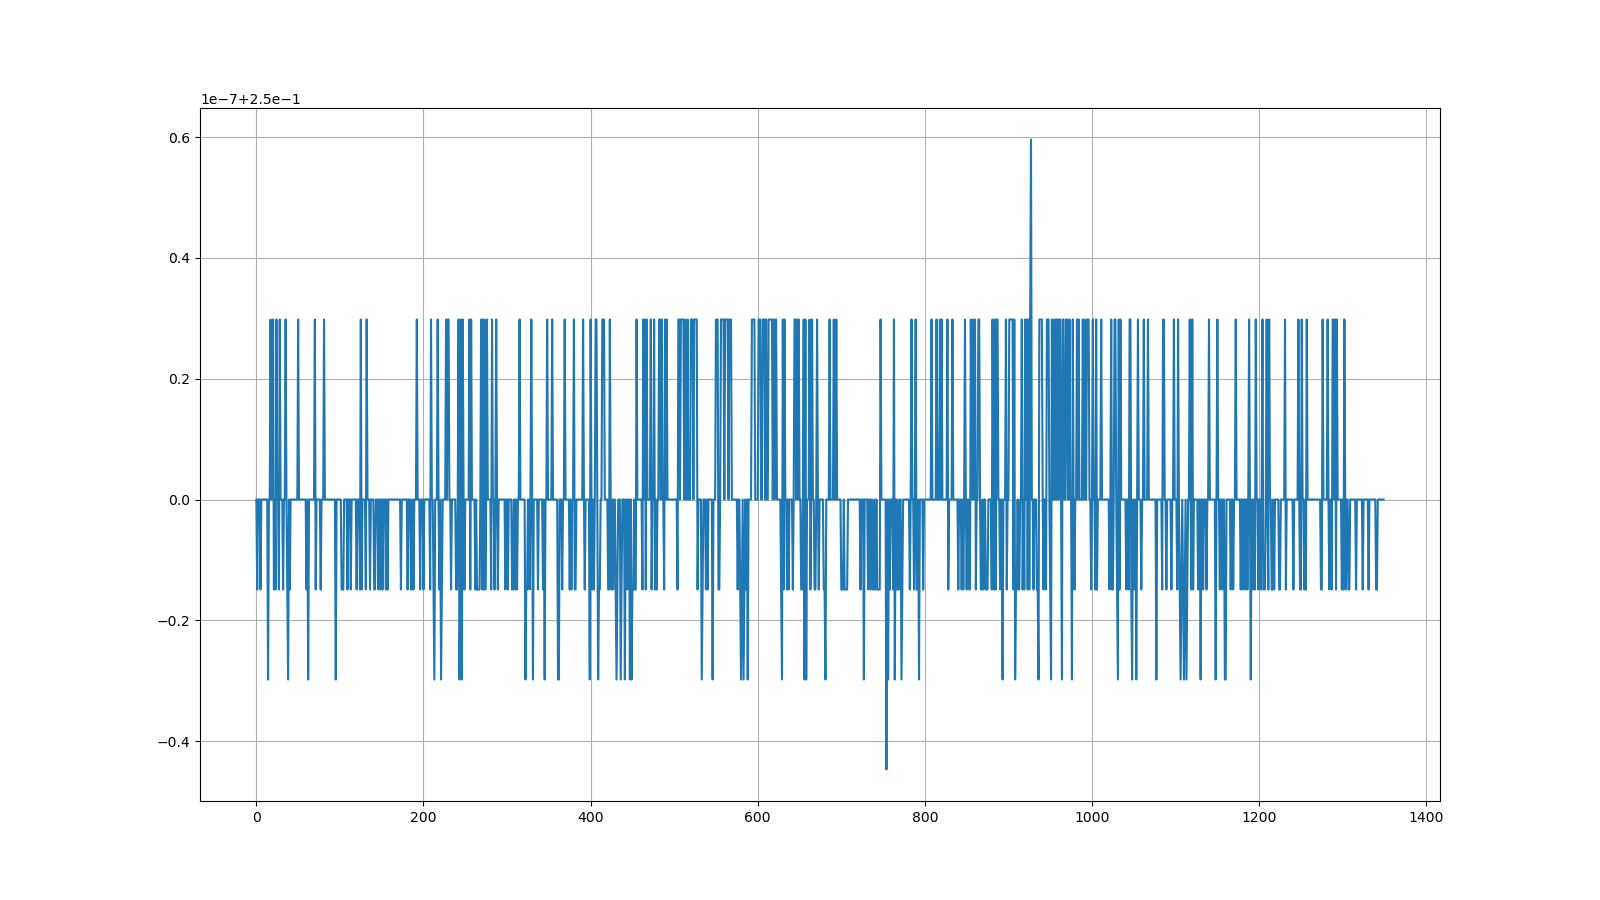
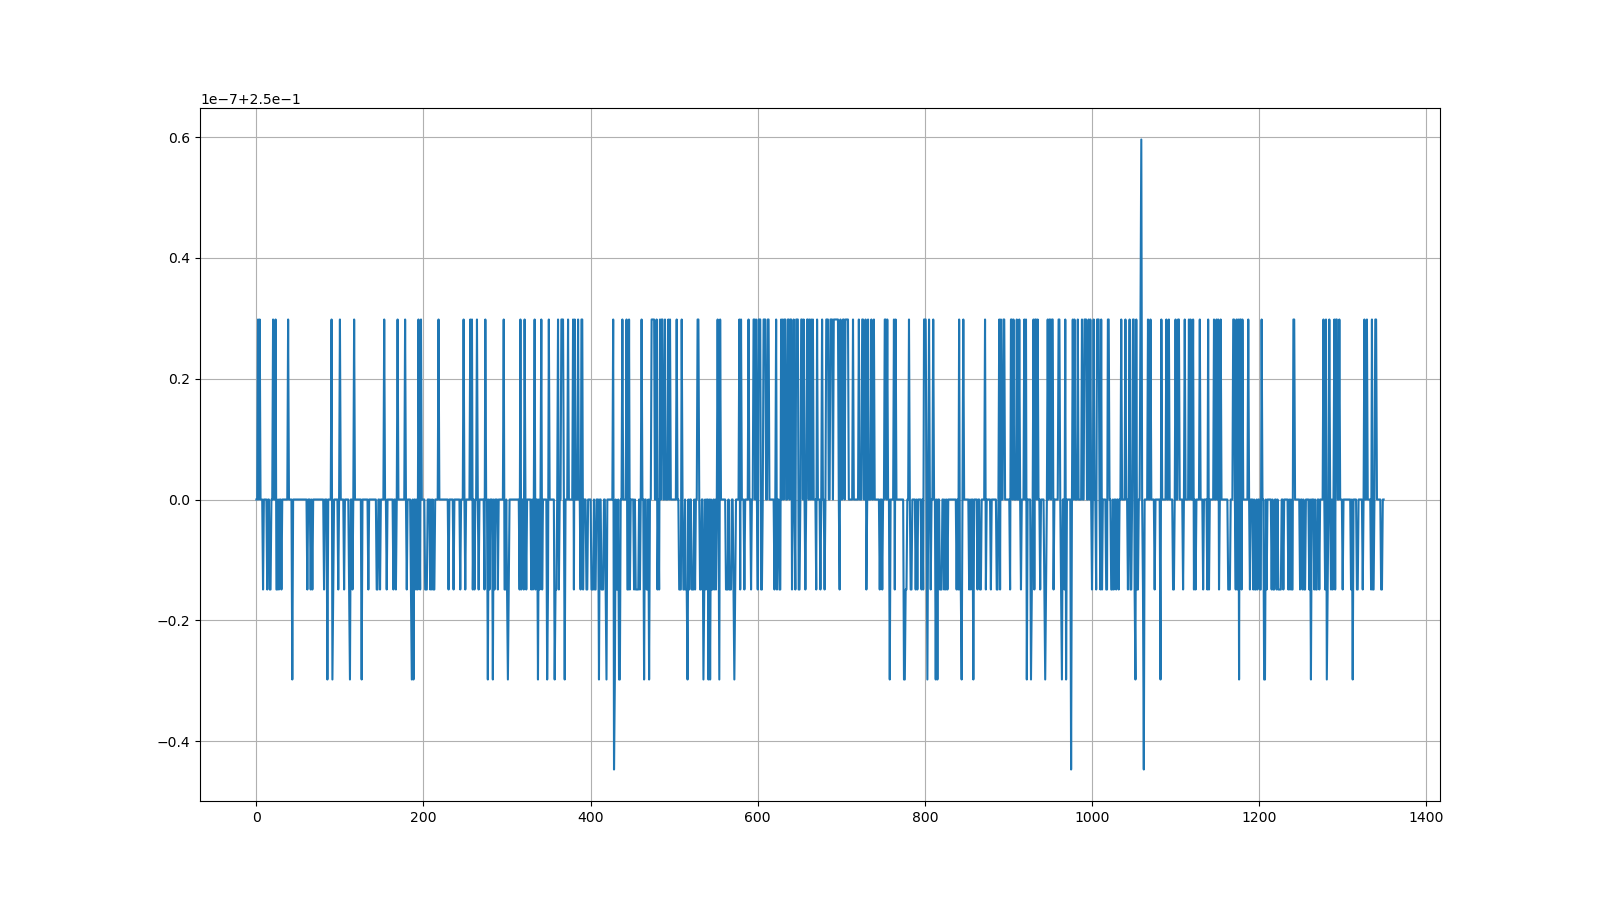
maximizar E(log(1+X_1+X_2+X_3))

Changed region(s): [[0.1562, 0.3422, 0.875, 0.7778]]

diff --git a/RUN/utils.py b/RUN/utils.py
@@ -198,44 +198,52 @@ def mu_update(mu_k, power_constr, eps):
 #     rates = torch.log(numerator / denominator + 1)
 #     return rates
 
-# def nuevo_get_rates(phi, channel_matrix_batch, sigma, p0=4):
-#     """
-#     phi: [batch_size, num_links, num_channels] (potencia de cada enlace por canal)
-#     channel_matrix_batch: [batch_size, num_links, num_links] (ganancias |h_ji|^2)
-#     sigma: ruido (scalar)
-#     p0: potencia del canal cuando está activo
-#     """
-#     batch_size, num_links, num_channels = phi.shape
-#     H = channel_matrix_batch.float()  # [batch_size, num_links, num_links]
-#     rates = torch.zeros(batch_size, num_links, num_channels)  
-
-#     for ch in range(num_channels):
-#             p_ch = phi[:,:,ch].float()  # [batch_size, num_links]
-#             h_ii = torch.diagonal(H, dim1=1, dim2=2)[0,:]    # [batch_size, num_links]
-#             numerator = torch.unsqueeze(h_ii * p_ch, dim=-1) # [batch_size, num_links, 1]
-#             p = torch.unsqueeze(p_ch, dim=-1).float() # [batch_size, num_links, 1]
-#             denominator = (torch.matmul(H, p) - numerator)*p/p0  +  sigma  # [batch_size, num_links, 1]
-#             rate_ch = torch.log(numerator / denominator + 1).squeeze(-1)    # [batch_size, num_links]
-#             rates[:, :, ch] = rate_ch
-#     return rates
-
-def nuevo_get_rates(phi, channel_matrix_batch, sigma):
+def nuevo_get_rates(phi, channel_matrix_batch, sigma, p0=4):
     """
-    phi: [batch_size, num_links, num_channels] (potencia de cada enlace por canal)
-    channel_matrix_batch: [batch_size, num_links, num_links] (|h_ji|^2)
-    sigma: ruido (scalar)
+    phi: [batch_size, num_links, num_channels] (potencia por canal)
+    channel_matrix_batch: [batch_size, num_links, num_links] (ganancias |h_ji|^2)
+    sigma: ruido (scalar o tensor compatible)
+    p0: potencia por canal cuando está activo
     """
     batch_size, num_links, num_channels = phi.shape
-    rates = torch.zeros(batch_size, num_links, num_channels, device=phi.device)
+
+    rates = torch.zeros(batch_size, num_links, num_channels)  
+
+    # acumulamos SNRs por canal
+    total_snr = torch.zeros(batch_size, num_links)
 
     for ch in range(num_channels):
-        p_i = phi[:,:,ch]  # potencia de cada enlace en canal ch
-        # señal útil
-        signal = torch.diagonal(channel_matrix_batch, dim1=1, dim2=2) * p_i
-        # interferencia: suma de potencias de los demás enlaces
-        interf = torch.matmul(channel_matrix_batch.float(), p_i.unsqueeze(-1).float()).squeeze(-1) - signal
-        rates[:,:,ch] = torch.log2(1 + signal / (interf + sigma))
+            p_i = phi[:,:,ch]
+            numerator = torch.unsqueeze(torch.diagonal(channel_matrix_batch, dim1=1, dim2=2) * p_i, dim=2)
+            expanded_phi = torch.unsqueeze(p_i, dim=2)
+            denominator = torch.matmul(channel_matrix_batch.float(), expanded_phi.float()) 
+            denominator -= numerator 
+            denominator = denominator*p_i.unsqueeze(-1)/p0
+            denominator += sigma
+            snr_ch = numerator / denominator
+            total_snr += snr_ch.squeeze(-1)    # acumulamos los SINRs de cada canal
+    
+    rates = torch.log(total_snr + 1)
+            
+    return rates
 
-    # tomar la tasa total de cada enlace (sumar o max según definas reward)
-    return rates.sum(dim=-1)   # [batch_size, num_links]
+# def nuevo_get_rates(phi, channel_matrix_batch, sigma):
+#     """
+#     phi: [batch_size, num_links, num_channels] (potencia de cada enlace por canal)
+#     channel_matrix_batch: [batch_size, num_links, num_links] (|h_ji|^2)
+#     sigma: ruido (scalar)
+#     """
+#     batch_size, num_links, num_channels = phi.shape
+#     rates = torch.zeros(batch_size, num_links, num_channels, device=phi.device)
+
+#     for ch in range(num_channels):
+#         p_i = phi[:,:,ch]  # potencia de cada enlace en canal ch
+#         # señal útil
+#         signal = torch.diagonal(channel_matrix_batch, dim1=1, dim2=2) * p_i
+#         # interferencia: suma de potencias de los demás enlaces
+#         interf = torch.matmul(channel_matrix_batch.float(), p_i.unsqueeze(-1).float()).squeeze(-1) - signal
+#         rates[:,:,ch] = torch.log2(1 + signal / (interf + sigma))
+
+#     # tomar la tasa total de cada enlace (sumar o max según definas reward)
+#     return rates.sum(dim=-1)   # [batch_size, num_links]
 

diff --git a/RUN/train.py b/RUN/train.py
@@ -81,7 +81,6 @@ def run(building_id=990, b5g=False, num_links=5, num_channels = 3, num_layers=5,
             channel_matrix_batch = data.matrix
             channel_matrix_batch = channel_matrix_batch.view(batch_size, num_links, num_links) # [64, 5, 5]
             psi = gnn_model.forward(data.x, data.edge_index, data.edge_attr) # [320, 5]
-            print("psi", psi)
             psi = psi.view(batch_size, num_links, output_dim) # [64, 5, 5]
           
             # Separa en parte discreta y continua
